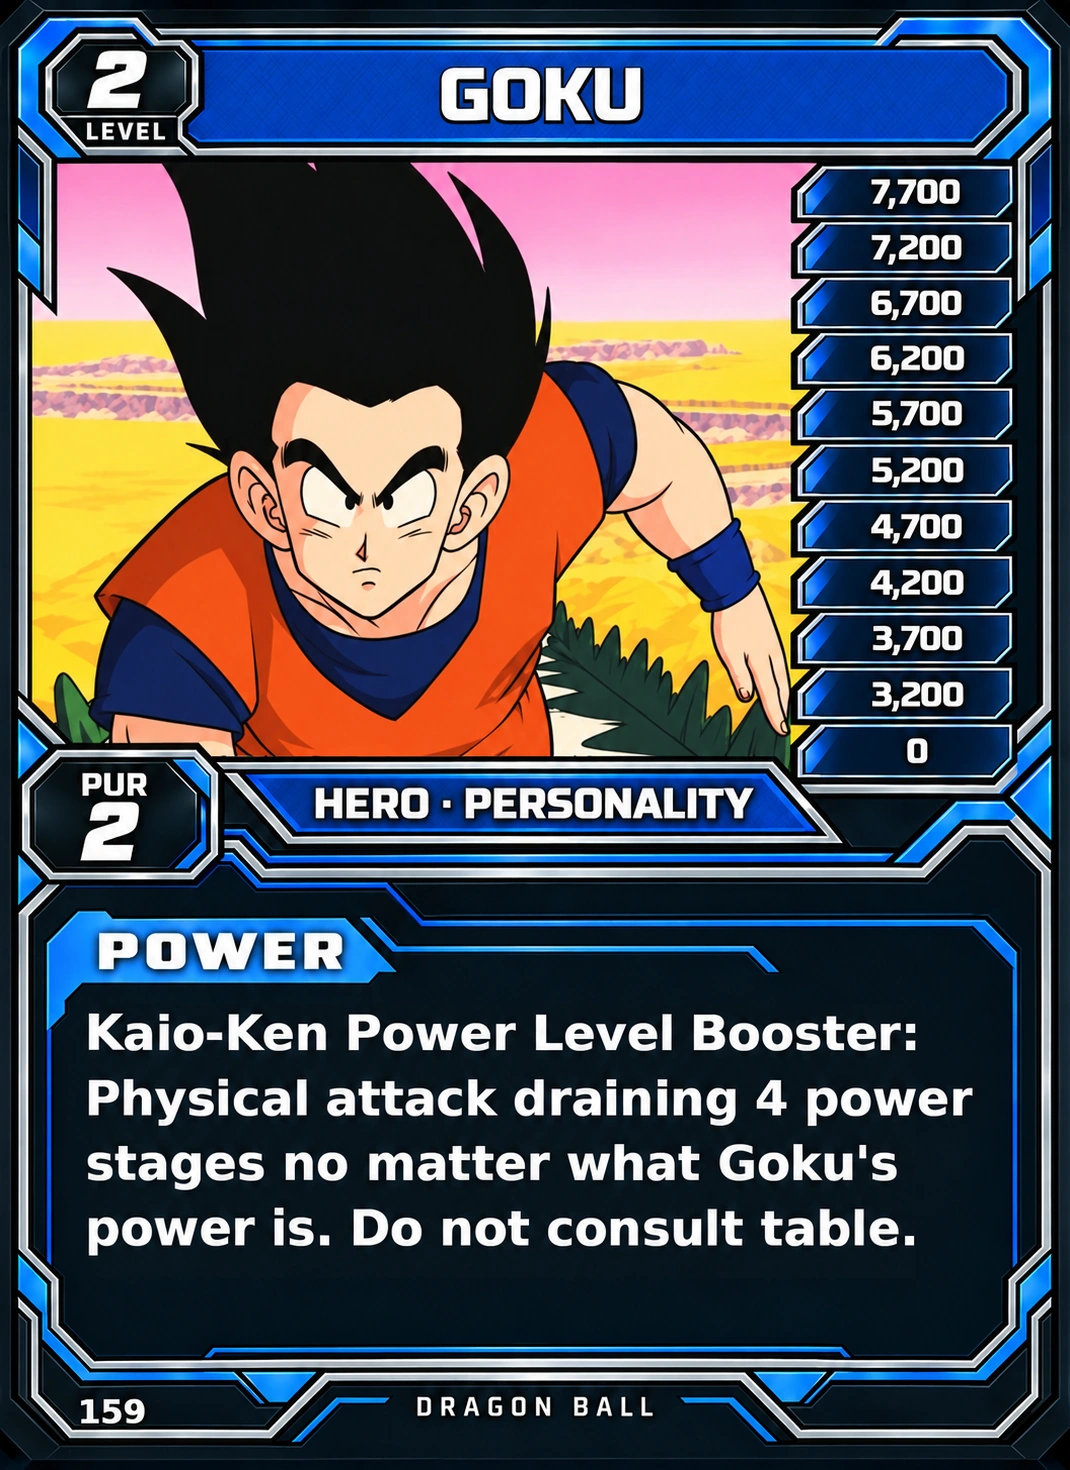
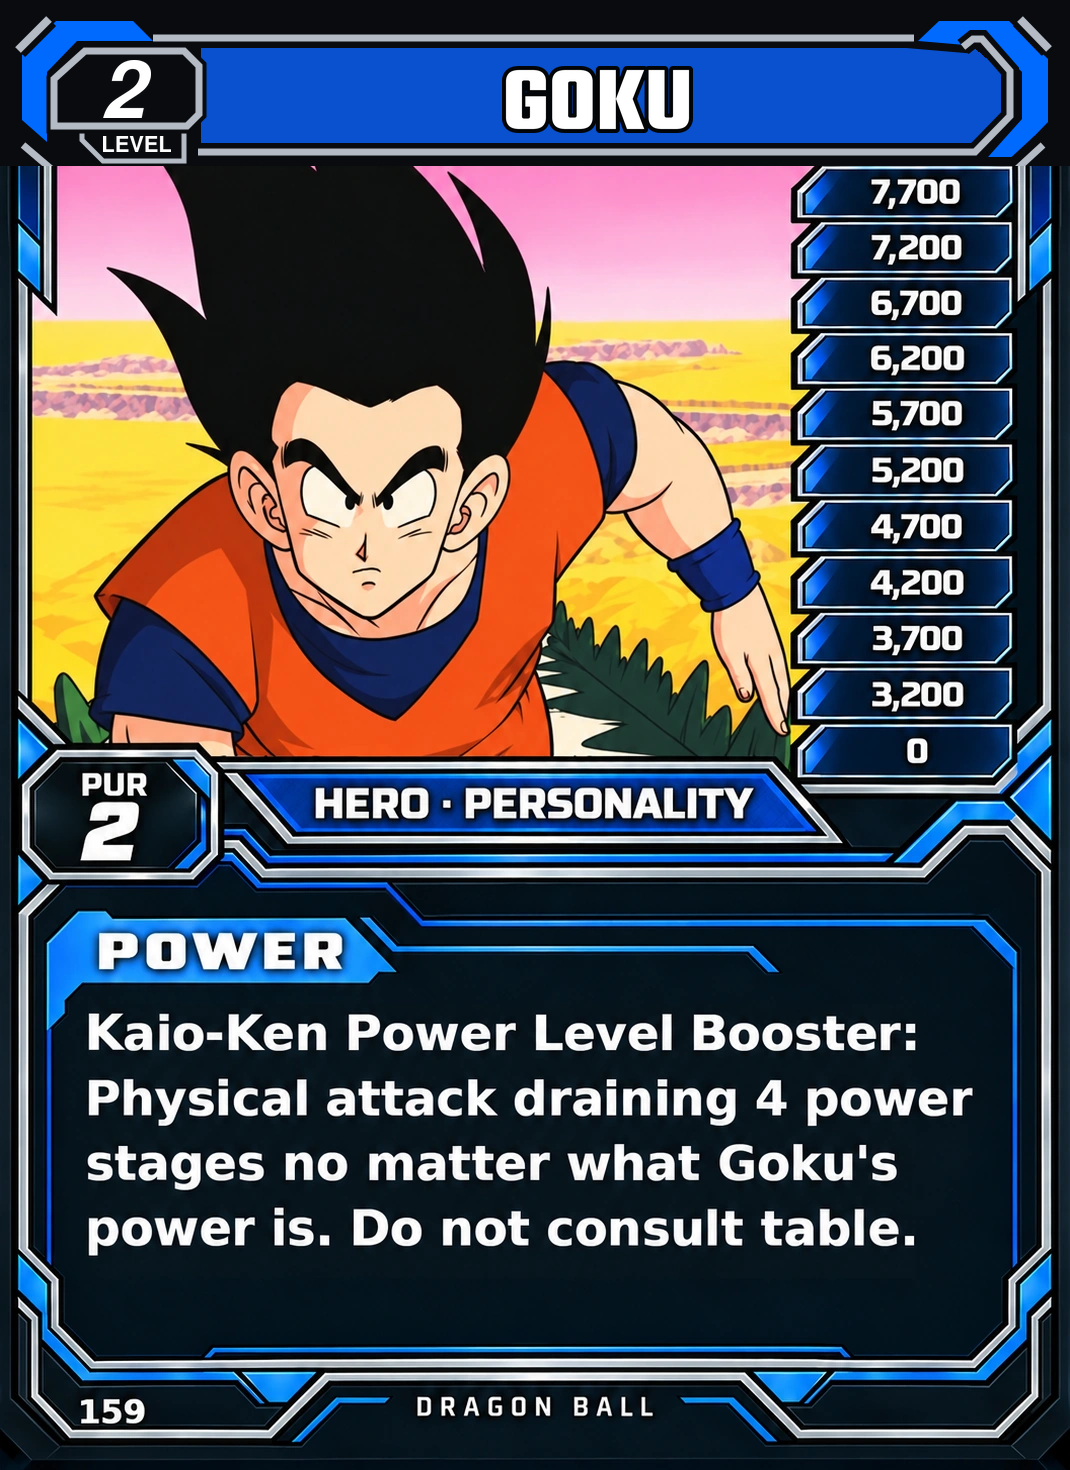
Apply approved angular LEVEL badges to personalities 11–20 of 49

Changed region(s): [[0.0, 0.0, 1.0, 0.1224]]

diff --git a/public/cards/catalog.js b/public/cards/catalog.js
@@ -2044,8 +2044,10 @@ export const catalog = [
     "style": "Freestyle",
     "set": "Saiyan Saga",
     "status": "Ready",
-    "image": "/assets/cards/saiyan-158-goku.webp?v=4a74e4c038",
-    "source": "https://retrodbzccg.com/card-images/saiyan-saga-starter/"
+    "image": "/assets/cards/saiyan-158-goku.webp?v=ae10751cbf",
+    "source": "https://retrodbzccg.com/card-images/saiyan-saga-starter/",
+    "width": 1070,
+    "height": 1470
   },
   {
     "id": "saiyan-159-goku",
@@ -2055,8 +2057,10 @@ export const catalog = [
     "style": "Freestyle",
     "set": "Saiyan Saga",
     "status": "Ready",
-    "image": "/assets/cards/saiyan-159-goku.webp?v=6514bca95b",
-    "source": "https://retrodbzccg.com/card-images/saiyan-saga-starter/"
+    "image": "/assets/cards/saiyan-159-goku.webp?v=53f78549d8",
+    "source": "https://retrodbzccg.com/card-images/saiyan-saga-starter/",
+    "width": 1070,
+    "height": 1470
   },
   {
     "id": "saiyan-160-goku",
@@ -2066,8 +2070,10 @@ export const catalog = [
     "style": "Freestyle",
     "set": "Saiyan Saga",
     "status": "Ready",
-    "image": "/assets/cards/saiyan-160-goku.webp?v=f851cc2a9f",
-    "source": "https://retrodbzccg.com/card-images/saiyan-saga-starter/"
+    "image": "/assets/cards/saiyan-160-goku.webp?v=a25df1b32c",
+    "source": "https://retrodbzccg.com/card-images/saiyan-saga-starter/",
+    "width": 1070,
+    "height": 1470
   },
   {
     "id": "saiyan-161-piccolo",
@@ -2077,8 +2083,10 @@ export const catalog = [
     "style": "Freestyle",
     "set": "Saiyan Saga",
     "status": "Ready",
-    "image": "/assets/cards/saiyan-161-piccolo.webp?v=60698b4c97",
-    "source": "https://retrodbzccg.com/card-images/saiyan-saga-starter/"
+    "image": "/assets/cards/saiyan-161-piccolo.webp?v=234d53722f",
+    "source": "https://retrodbzccg.com/card-images/saiyan-saga-starter/",
+    "width": 1070,
+    "height": 1470
   },
   {
     "id": "saiyan-162-piccolo",
@@ -2088,8 +2096,10 @@ export const catalog = [
     "style": "Freestyle",
     "set": "Saiyan Saga",
     "status": "Ready",
-    "image": "/assets/cards/saiyan-162-piccolo.webp?v=e506f18a34",
-    "source": "https://retrodbzccg.com/card-images/saiyan-saga-starter/"
+    "image": "/assets/cards/saiyan-162-piccolo.webp?v=0b40afcf84",
+    "source": "https://retrodbzccg.com/card-images/saiyan-saga-starter/",
+    "width": 1070,
+    "height": 1470
   },
   {
     "id": "saiyan-163-piccolo",
@@ -2099,8 +2109,10 @@ export const catalog = [
     "style": "Freestyle",
     "set": "Saiyan Saga",
     "status": "Ready",
-    "image": "/assets/cards/saiyan-163-piccolo.webp?v=f3b7da3ea7",
-    "source": "https://retrodbzccg.com/card-images/saiyan-saga-starter/"
+    "image": "/assets/cards/saiyan-163-piccolo.webp?v=da867d357c",
+    "source": "https://retrodbzccg.com/card-images/saiyan-saga-starter/",
+    "width": 1070,
+    "height": 1470
   },
   {
     "id": "saiyan-164-gohan",
@@ -2110,8 +2122,10 @@ export const catalog = [
     "style": "Freestyle",
     "set": "Saiyan Saga",
     "status": "Ready",
-    "image": "/assets/cards/saiyan-164-gohan.webp?v=37a1c55669",
-    "source": "https://retrodbzccg.com/card-images/saiyan-saga-starter/"
+    "image": "/assets/cards/saiyan-164-gohan.webp?v=b6bedb403d",
+    "source": "https://retrodbzccg.com/card-images/saiyan-saga-starter/",
+    "width": 1070,
+    "height": 1470
   },
   {
     "id": "saiyan-165-gohan",
@@ -2121,8 +2135,10 @@ export const catalog = [
     "style": "Freestyle",
     "set": "Saiyan Saga",
     "status": "Ready",
-    "image": "/assets/cards/saiyan-165-gohan.webp?v=62a90166d2",
-    "source": "https://retrodbzccg.com/card-images/saiyan-saga-starter/"
+    "image": "/assets/cards/saiyan-165-gohan.webp?v=b952e70d32",
+    "source": "https://retrodbzccg.com/card-images/saiyan-saga-starter/",
+    "width": 1070,
+    "height": 1470
   },
   {
     "id": "saiyan-166-gohan",
@@ -2132,8 +2148,10 @@ export const catalog = [
     "style": "Freestyle",
     "set": "Saiyan Saga",
     "status": "Ready",
-    "image": "/assets/cards/saiyan-166-gohan.webp?v=c7c236cf6c",
-    "source": "https://retrodbzccg.com/card-images/saiyan-saga-starter/"
+    "image": "/assets/cards/saiyan-166-gohan.webp?v=1abb0f352d",
+    "source": "https://retrodbzccg.com/card-images/saiyan-saga-starter/",
+    "width": 1070,
+    "height": 1470
   },
   {
     "id": "saiyan-167-krillin",
@@ -2143,8 +2161,10 @@ export const catalog = [
     "style": "Freestyle",
     "set": "Saiyan Saga",
     "status": "Ready",
-    "image": "/assets/cards/saiyan-167-krillin.webp?v=f9290228c8",
-    "source": "https://retrodbzccg.com/card-images/saiyan-saga-starter/"
+    "image": "/assets/cards/saiyan-167-krillin.webp?v=622c2edfb6",
+    "source": "https://retrodbzccg.com/card-images/saiyan-saga-starter/",
+    "width": 1070,
+    "height": 1470
   },
   {
     "id": "saiyan-168-krillin",
